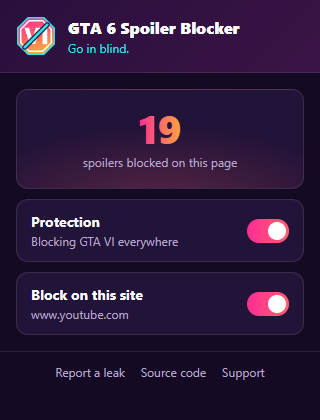
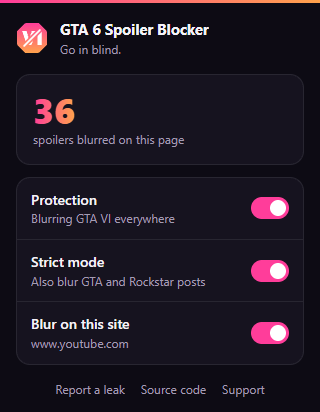
docs: update readme, screenshots, and store listing for blur

diff --git a/scripts/build-icons.js b/scripts/build-icons.js
@@ -3,6 +3,7 @@ import { mkdirSync, readFileSync } from "node:fs";
 
 const LOGO_FILE = "src/assets/logo.svg";
 const logo = readFileSync(LOGO_FILE, "utf8");
+const FONT = "Segoe UI, Inter, Arial, sans-serif";
 
 const nestedLogo = (x, y, size) =>
   logo.replace(
@@ -10,44 +11,36 @@ const nestedLogo = (x, y, size) =>
     `<svg x="${x}" y="${y}" width="${size}" height="${size}" `,
   );
 
-const sunStripes = [0, 1, 2, 3, 4]
+const sunGaps = [0, 1, 2, 3]
   .map(
     (i) =>
-      `<rect x="0" y="${505 + i * 34}" width="1320" height="${6 + i * 3}" fill="#2a0f3d"/>`,
+      `<rect x="840" y="${500 + i * 36}" width="420" height="${4 + i * 3}" fill="#0d0b14"/>`,
   )
   .join("");
 
 const banner = `
 <svg xmlns="http://www.w3.org/2000/svg" width="1320" height="840" viewBox="0 0 1320 840">
   <defs>
-    <linearGradient id="sky" x1="0" y1="0" x2="0" y2="1">
-      <stop offset="0" stop-color="#120822"/>
-      <stop offset="0.6" stop-color="#2a0f3d"/>
-      <stop offset="1" stop-color="#5a1a4f"/>
-    </linearGradient>
     <linearGradient id="sun" x1="0" y1="0" x2="0" y2="1">
-      <stop offset="0" stop-color="#ffa63d"/>
-      <stop offset="0.6" stop-color="#ff5f6d"/>
-      <stop offset="1" stop-color="#ff2d95"/>
+      <stop offset="0" stop-color="#ffa24c"/>
+      <stop offset="1" stop-color="#ff3d9a"/>
     </linearGradient>
-    <linearGradient id="title" x1="0" y1="0" x2="1" y2="0">
-      <stop offset="0" stop-color="#ff2d95"/>
-      <stop offset="1" stop-color="#ffa63d"/>
+    <linearGradient id="line" x1="0" y1="0" x2="1" y2="0">
+      <stop offset="0" stop-color="#ff3d9a"/>
+      <stop offset="1" stop-color="#ffa24c"/>
     </linearGradient>
-    <clipPath id="sunClip"><rect x="0" y="0" width="1320" height="660"/></clipPath>
-    <clipPath id="stripeClip"><circle cx="1040" cy="600" r="230"/></clipPath>
+    <clipPath id="horizon"><rect width="1320" height="640"/></clipPath>
   </defs>
-  <rect width="1320" height="840" fill="url(#sky)"/>
-  <g clip-path="url(#sunClip)">
-    <circle cx="1040" cy="600" r="230" fill="url(#sun)" opacity="0.9"/>
-    <g clip-path="url(#stripeClip)">${sunStripes}</g>
+  <rect width="1320" height="840" fill="#0d0b14"/>
+  <g clip-path="url(#horizon)">
+    <circle cx="1050" cy="640" r="190" fill="url(#sun)"/>
+    ${sunGaps}
   </g>
-  <rect x="0" y="660" width="1320" height="180" fill="#1a0b2e"/>
-  <line x1="0" y1="660" x2="1320" y2="660" stroke="#2de2e6" stroke-width="4"/>
-  ${nestedLogo(90, 110, 260)}
-  <text x="90" y="520" font-family="Segoe UI, Arial, sans-serif" font-weight="900" font-size="132" fill="url(#title)">GTA 6</text>
-  <text x="90" y="620" font-family="Segoe UI, Arial, sans-serif" font-weight="900" font-size="92" fill="#ffffff">SPOILER BLOCKER</text>
-  <text x="94" y="760" font-family="Segoe UI, Arial, sans-serif" font-weight="700" font-size="44" letter-spacing="8" fill="#2de2e6">GO IN BLIND</text>
+  <rect x="0" y="639" width="1320" height="2" fill="url(#line)"/>
+  ${nestedLogo(110, 150, 140)}
+  <text x="106" y="420" font-family="${FONT}" font-weight="800" font-size="92" letter-spacing="-2" fill="#f5f3f8">GTA 6</text>
+  <text x="106" y="520" font-family="${FONT}" font-weight="800" font-size="92" letter-spacing="-2" fill="#f5f3f8">Spoiler Blocker</text>
+  <text x="110" y="745" font-family="${FONT}" font-weight="600" font-size="40" fill="#a39cb3">Go in blind.</text>
 </svg>`;
 
 mkdirSync("public/icons", { recursive: true });

diff --git a/README.md b/README.md
@@ -4,7 +4,7 @@
 
 <a href="https://github.com/kpulka247/gta6-spoiler-blocker/actions" title="GitHub Actions Workflow Status"><img src="https://img.shields.io/github/actions/workflow/status/kpulka247/gta6-spoiler-blocker/release.yml"></a>
 <a href="https://github.com/kpulka247/gta6-spoiler-blocker/releases" title="GitHub Release"><img src="https://img.shields.io/github/v/release/kpulka247/gta6-spoiler-blocker?logo=github&logoColor=white"></a>
-<a href="https://github.com/kpulka247/gta6-spoiler-blocker/blob/main/LICENSE" title="GitHub License"><img src="https://img.shields.io/github/license/kpulka247/gta6-spoiler-blocker?color=%23ff2d95"></a>
+<a href="https://github.com/kpulka247/gta6-spoiler-blocker/blob/main/LICENSE" title="GitHub License"><img src="https://img.shields.io/github/license/kpulka247/gta6-spoiler-blocker?color=%23ff3d9a"></a>
 
 </div>
 
@@ -12,31 +12,35 @@
 
 GTA 6 Spoiler Blocker is a browser extension for people who want to play Grand Theft Auto VI knowing nothing about it. Once the game is out, its story, characters, and ending will be on every feed, search page, and news site. Muting a few keywords on one social network does not stop that.
 
-The extension reads every page you open and removes anything about GTA VI before you see it: video tiles, posts, comments, search results, article cards, and image captions. Pages that are entirely about the game, such as a trailer on YouTube or a review, are covered with a full-screen shield instead. Everything else on the internet stays untouched.
+The extension reads every page you open and blurs anything about GTA VI before you see it: video tiles, posts, comments, search results, article cards, and image captions. The page keeps its layout, and you click a blurred card to see it. Pages that are entirely about the game, such as a trailer or a review, are covered with a see-through blur and a short message.
 
-It is on from the moment you install it. There is nothing to configure.
+It is on from the moment you install it, in every language. There is nothing to configure.
 
 ## Features
 
-- 🛡 **Blocks by meaning, not by one keyword list.** It catches every spelling of the title (`GTA 6`, `GTA VI`, `gta6`, `#GTA6`, `GTA-VI`, `Grand Theft Auto: VI`, `ГТА 6`, `グランド・セフト・オートVI`), the main characters, and the locations of Leonida. Fullwidth digits, Roman numeral characters, and hidden zero-width characters do not get past it.
-- 🧱 **Removes whole cards, not single words.** It has card rules for YouTube, Reddit, X, Facebook, Instagram, TikTok, Twitch, Google, Bing, DuckDuckGo, and Steam, so the whole video tile, post, or result goes and the thumbnail goes with the title. On other sites it finds the nearest card, list item, or paragraph.
-- 🌅 **Covers pages that are about the game.** If the address or the tab title mentions GTA VI, a shield covers the page, pauses any video or audio, and renames the tab. You choose **Take me back** or **Show anyway**.
-- 🎬 **Treats Rockstar's own channels as spoilers.** The Rockstar Games website, YouTube channel, X, Instagram, Facebook, Threads, TikTok, and Twitch accounts are covered, and any post that links to them is hidden. Their key art often has no text a keyword could catch.
-- ⚡ **Works before the page paints.** The content script starts at `document_start` and watches the page as it loads, so endless feeds and single-page apps are covered as you scroll.
-- 🔢 **Shows a count on the icon.** The badge shows how many spoilers it removed from the current page.
-- 🔒 **Collects no data.** Everything runs locally. There are no servers, no analytics, and no remote block lists.
+- 🌫 **Blurs in place.** A matching card stays where it is, blurred, with a small **GTA spoiler · Click to show** label. One click shows it. The click does not open the link underneath.
+- 🛡 **Catches every spelling.** `GTA 6`, `GTA VI`, `gta6`, `#GTA6`, `GTA-VI`, `Grand Theft Auto: VI`, `ГТА 6`, `グラセフ6`, `侠盗猎车手6`, `그랜드 테프트 오토 6`, `जीटीए 6`, and more. Fullwidth digits, Roman numeral characters, and hidden zero-width characters do not get past it. The main characters, the places of Leonida, and phrases like "Jason dies" are blocked in several languages.
+- 🎯 **Strict mode, on by default.** Many posts hide GTA VI behind a **See more** link or inside an image, with only "All GTA helicopters" or a group called "Rockstar Games" in plain view. Strict mode also blurs posts that mention GTA, Grand Theft Auto, or Rockstar Games. Turn it off in the popup if you want older GTA content to stay clear.
+- 🌅 **Covers pages that are about the game.** If the address or the tab title mentions GTA VI, the page is blurred behind a card with **Take me back** and **Show anyway**. Videos and audio on the page are paused, and the tab is renamed.
+- 🎬 **Treats Rockstar's own channels as spoilers.** The Rockstar Games website, YouTube channel, X, Instagram, Facebook, Threads, TikTok, and Twitch accounts are covered, and any post that links to them is blurred.
+- 🧱 **Blurs whole cards.** It has card rules for YouTube, Reddit, X, Facebook, Instagram, TikTok, Twitch, Google, Bing, DuckDuckGo, and Steam, so a thumbnail is blurred together with its title. On other sites it blurs the nearest card, list item, or paragraph.
+- 🌍 **Speaks 20 languages.** The popup, labels, and page cover follow your browser language: English, Polish, German, Spanish, French, Italian, Portuguese, Dutch, Swedish, Czech, Russian, Ukrainian, Turkish, Arabic, Hindi, Indonesian, Japanese, Korean, and Simplified and Traditional Chinese.
+- 🔢 **Shows a count on the icon.** The badge shows how many spoilers are blurred on the current page.
+- 🔒 **Collects no data.** Everything runs on your device. There are no servers, no analytics, and no remote block lists.
 
 ## Screenshots
 
-A YouTube search for `rockstar games trailer` without the extension, then with it:
+A YouTube search for `rockstar games trailer` without the extension:
 
 ![YouTube search without the extension](static/images/screenshot-youtube-off.png)
 
+The same search with the extension:
+
 ![YouTube search with the extension](static/images/screenshot-youtube-on.png)
 
-A page about GTA VI is covered:
+A page about GTA VI:
 
-![Full-page shield](static/images/screenshot-shield.png)
+![Page cover](static/images/screenshot-shield.png)
 
 The popup:
 
@@ -53,19 +57,23 @@ The Chrome Web Store and Firefox Add-ons listings are in review. Until they are 
 
 Install it and browse. The extension is on by default on every site.
 
+To see a blurred card, click it. To open the link inside it, click again.
+
 Click the toolbar icon to open the popup:
 
-- **Protection** turns blocking on or off everywhere.
-- **Block on this site** turns blocking off for the current site only. Use it if you write about GTA VI or moderate a GTA community.
+- **Protection** turns blurring on or off everywhere.
+- **Strict mode** also blurs posts that mention GTA or Rockstar without naming GTA VI.
+- **Blur on this site** turns blurring off for the current site only. Use it if you write about GTA VI or moderate a GTA community.
 
 To report a spoiler that got through, [open an issue](https://github.com/kpulka247/gta6-spoiler-blocker/issues) with the page address. Leave the spoiler itself out of the issue.
 
 ## Known limitations
 
-- **Images with no text.** The extension reads text, links, and image descriptions. A thumbnail that shows GTA VI art under a title like "All Rockstar trailers 1997-2026" stays visible, because nothing in the page says GTA 6.
-- **Vice City.** The extension treats "Vice City" as a GTA VI location. Pages about Grand Theft Auto: Vice City from 2002 are hidden too.
+- **Images with no text.** The extension reads text, links, and image descriptions. A thumbnail that shows GTA VI art under a title that never mentions GTA stays clear. Strict mode catches most of these, because such posts usually name GTA or Rockstar somewhere.
+- **Strict mode is broad.** It blurs GTA V and GTA Online posts, and any "GTA" that means the Greater Toronto Area. Click to show them, or turn strict mode off.
+- **Vice City.** The extension treats "Vice City" as a GTA VI location. Pages about Grand Theft Auto: Vice City from 2002 are blurred too.
+- **Site layouts change.** The card rules for each site match its current markup. When a site redesigns, a rule can stop matching. The fallback still blurs the nearest list item or paragraph, but a thumbnail can stay clear until the rule is updated.
 - **Shadow DOM.** The extension does not check text inside shadow roots.
-- **Site layouts change.** The card rules for each site match that site's current markup. When a site redesigns, a rule can stop matching. The fallback still hides the nearest list item or paragraph, but a thumbnail can be left behind until the rule is updated.
 
 ## Development and build
 
@@ -100,7 +108,7 @@ Webpack writes unpacked builds to `dist/gta6spoilerblocker-chrome/` and `dist/gt
 ### 🧪 Test
 
 ```bash
-# Unit tests for the matcher: every spoiler that must be caught and every phrase that must not
+# Unit tests: every spoiler that must be caught, every phrase that must not, and every translation
 pnpm test
 
 # End-to-end tests: loads the built extension into Chromium and checks real pages
@@ -129,23 +137,27 @@ You do not bump versions by hand.
 
 ## How it works
 
-| File                     | Owns                                                                                                                                                                          |
-| ------------------------ | ----------------------------------------------------------------------------------------------------------------------------------------------------------------------------- |
-| `src/spoilers.js`        | What counts as GTA VI content. `TERM_GROUPS` lists every title variant, character, place, and spoiler phrase. `mentionsGta6()` and `urlMentionsGta6()` are the only matchers. |
-| `src/sites.js`           | Where a self-contained card starts and ends on each supported site, plus the fallback for every other site.                                                                   |
-| `src/settings.js`        | The stored settings (`enabled`, `allowedSites`) and their defaults.                                                                                                           |
-| `src/content/blocker.js` | Walks the page, checks text and attributes, and hides matching cards.                                                                                                         |
-| `src/content/shield.js`  | The full-page cover.                                                                                                                                                          |
-| `src/content/index.js`   | Starts the blocker, watches the page for changes, and decides when to show the shield.                                                                                        |
-| `src/background.js`      | The toolbar badge, and protecting tabs that were open at install time.                                                                                                        |
-| `public/manifest.json`   | The shared manifest. `webpack.config.js` adds the Chrome or Firefox background and Firefox ID at build time.                                                                  |
-| `scripts/build-icons.js` | Renders the icons, README banner, and store images from `src/assets/logo.svg`. Run it with `pnpm icons`.                                                                      |
+| File                     | Owns                                                                                                                                                                                                                                                        |
+| ------------------------ | ----------------------------------------------------------------------------------------------------------------------------------------------------------------------------------------------------------------------------------------------------------- |
+| `src/spoilers.js`        | What counts as a spoiler. `EXPLICIT_TERMS` lists the title in every script, the characters, the places, and death phrases. `FRANCHISE_TERMS` lists the broader terms that strict mode adds. `mentionsGta6()` and `urlMentionsGta6()` are the only matchers. |
+| `src/sites.js`           | Where a self-contained card starts and ends on each supported site, plus the fallback for every other site.                                                                                                                                                 |
+| `src/settings.js`        | The stored settings (`enabled`, `strict`, `allowedSites`) and their defaults.                                                                                                                                                                               |
+| `src/locales.js`         | Every user-facing string in every language. The build turns it into `_locales/*/messages.json`.                                                                                                                                                             |
+| `src/styles/tokens.css`  | The colors and font shared by the blur labels, the page cover, and the popup.                                                                                                                                                                               |
+| `src/content/blocker.js` | Walks the page, checks text and attributes, and blurs or reveals cards.                                                                                                                                                                                     |
+| `src/content/shield.js`  | The page cover.                                                                                                                                                                                                                                             |
+| `src/content/index.js`   | Starts the blocker, watches the page for changes, handles click-to-reveal, and decides when to cover the page.                                                                                                                                              |
+| `src/background.js`      | The toolbar badge, and protecting tabs that were open at install time.                                                                                                                                                                                      |
+| `public/manifest.json`   | The shared manifest. `webpack.config.js` adds the Chrome or Firefox background and the Firefox ID at build time.                                                                                                                                            |
+| `scripts/build-icons.js` | Renders the icons, README banner, and store images from `src/assets/logo.svg`. Run it with `pnpm icons`.                                                                                                                                                    |
 
-To block a new term, add it to `TERM_GROUPS` in `src/spoilers.js` and add an example to `test/unit/spoilers.test.js`. Add a phrase that must stay visible to the `SAFE` list in the same file.
+To block a new term, add it to `EXPLICIT_TERMS` or `FRANCHISE_TERMS` in `src/spoilers.js` and add an example to `test/unit/spoilers.test.js`.
+
+To add a language, add a block to `MESSAGES` in `src/locales.js`. `pnpm test` fails until the block has every key and its store description fits in 132 characters.
 
 ## Contributing
 
-Contributions are welcome. 💖 New terms, site support, and false-positive reports help the most.
+Contributions are welcome. 💖 New terms, translations, site support, and false-positive reports help the most.
 
 Read **[CONTRIBUTING.md](./CONTRIBUTING.md)** to set up the project, find the target branch (`dev`), and name your Pull Request.
 

diff --git a/docs/store-listing.md b/docs/store-listing.md
@@ -1,6 +1,6 @@
 # Store listing
 
-Text to paste into the Chrome Web Store and Firefox Add-ons forms. Images are in `static/store/` and `static/images/`. Regenerate the store images with `pnpm icons`.
+Text to paste into the Chrome Web Store and Firefox Add-ons forms. The extension name and summary are translated in `src/locales.js` (`extName` and `extDescription`), and both stores pick them up from the package. Images are in `static/store/` and `static/images/`. Regenerate the store images with `pnpm icons`.
 
 ## Name
 
@@ -8,28 +8,31 @@ GTA 6 Spoiler Blocker
 
 ## Summary (132 characters maximum)
 
-Hides GTA 6 trailers, leaks, videos, articles and story spoilers across the web so you go in blind. Not affiliated with Rockstar.
+Blurs GTA 6 trailers, leaks, videos, posts and story spoilers across the web so you go in blind. Not affiliated with Rockstar.
 
 ## Description
 
-Want to play Grand Theft Auto VI knowing nothing about it? Once the game is out, its story, characters, and ending will be on every feed, search page, and news site. GTA 6 Spoiler Blocker removes them before you see them, and leaves the rest of the internet alone.
+Want to play Grand Theft Auto VI knowing nothing about it? Once the game is out, its story, characters, and ending will be on every feed, search page, and news site. GTA 6 Spoiler Blocker blurs them before you see them, and leaves the rest of the internet alone. Click a blurred post to see it.
 
 It works the moment you install it. There is nothing to set up.
 
-What it blocks:
-• Every spelling of the title: GTA 6, GTA VI, gta6, #GTA6, GTA-VI, Grand Theft Auto VI, and more
+What it blurs:
+• Every spelling of the title, in every script: GTA 6, GTA VI, gta6, #GTA6, ГТА 6, グラセフ6, 侠盗猎车手6, and more
 • The main characters, the state of Leonida, and its cities
 • Spoiler phrases such as "Jason dies" or "Lucia ending"
 • Rockstar Games' own website and social accounts, which are full of GTA VI art
+• In strict mode (on by default), any post about GTA or Rockstar, because many hide GTA VI behind "See more"
 
-How it blocks:
-• Hides whole video tiles, posts, comments, and search results on YouTube, Reddit, X, Facebook, Instagram, TikTok, Twitch, Google, Bing, DuckDuckGo, and Steam, so thumbnails go with their titles
-• Hides the matching card, list item, or paragraph on every other site
-• Covers pages that are about GTA VI with a full-screen shield and pauses their videos
-• Shows how many spoilers it removed on the toolbar icon
+How it works:
+• Blurs whole video tiles, posts, comments, and search results in place on YouTube, Reddit, X, Facebook, Instagram, TikTok, Twitch, Google, Bing, DuckDuckGo, and Steam
+• Blurs the matching card, list item, or paragraph on every other site
+• Covers pages that are about GTA VI with a see-through blur and pauses their videos
+• Shows how many spoilers are blurred on the toolbar icon
+• Speaks 20 languages
 
 You stay in control:
-• Turn protection off for one site, or everywhere, from the popup
+• Click any blurred post to see it
+• Turn strict mode off, or turn protection off for one site or everywhere, from the popup
 • Choose "Show anyway" on any covered page
 
 Privacy: everything runs on your device. The extension collects no data, sends nothing anywhere, and has no analytics.
@@ -45,12 +48,12 @@ This is an unofficial fan project. It is not affiliated with, endorsed by, or sp
 
 ## Single purpose (Chrome Web Store)
 
-Hide content about the video game Grand Theft Auto VI on web pages, so the user avoids story spoilers.
+Blur content about the video game Grand Theft Auto VI on web pages, so the user avoids story spoilers.
 
 ## Permission justifications (Chrome Web Store)
 
-- **Host permission `<all_urls>`.** Spoilers can appear on any website. The content script reads the text of each page the user opens and hides parts that mention GTA VI. It does not read or send form data, and it sends nothing off the device.
-- **`storage`.** Stores two settings on the device: whether protection is on, and the list of sites where the user turned it off.
+- **Host permission `<all_urls>`.** Spoilers can appear on any website. The content script reads the text of each page the user opens and blurs parts that mention GTA VI. It does not read or send form data, and it sends nothing off the device.
+- **`storage`.** Stores three settings on the device: whether protection is on, whether strict mode is on, and the list of sites where the user turned it off.
 - **`scripting`.** On install, injects the content script into tabs that were already open, so they are protected without a reload.
 
 ## Data usage (Chrome Web Store)
@@ -65,4 +68,4 @@ The manifest declares `data_collection_permissions: { "required": ["none"] }`.
 
 ## Reviewer notes
 
-The extension has no remote code and no network requests. To test it, open https://www.youtube.com/results?search_query=rockstar+games. GTA VI videos are hidden. Then open https://en.wikipedia.org/wiki/Grand_Theft_Auto_VI. The page is covered. The full source is at https://github.com/kpulka247/gta6-spoiler-blocker, and `pnpm install && pnpm build` reproduces the uploaded package.
+The extension has no remote code and no network requests. To test it, open https://www.youtube.com/results?search_query=rockstar+games. GTA VI videos are blurred. Click one to show it. Then open https://en.wikipedia.org/wiki/Grand_Theft_Auto_VI. The page is covered. The full source is at https://github.com/kpulka247/gta6-spoiler-blocker, and `pnpm install && pnpm build` reproduces the uploaded package.

diff --git a/CONTRIBUTING.md b/CONTRIBUTING.md
@@ -31,10 +31,11 @@ Do not paste the spoiler into the issue. Other people read issues too.
    - **Chrome.** Open `chrome://extensions`, turn on **Developer mode**, click **Load unpacked**, and select `dist/gta6spoilerblocker-chrome/`.
    - **Firefox.** Open `about:debugging#/runtime/this-firefox`, click **Load Temporary Add-on**, and select `manifest.json` in `dist/gta6spoilerblocker-firefox/`.
 
-## Add a term or a site
+## Add a term, a site, or a language
 
-- **A new term.** Add it to `TERM_GROUPS` in `src/spoilers.js`. Add an example that must be blocked to `SPOILERS` in `test/unit/spoilers.test.js`. If the term is close to common words, add a phrase that must stay visible to `SAFE`.
-- **A new site.** Add an entry to `SITE_UNITS` in `src/sites.js`. List the selectors of the smallest element that holds one whole item, such as a post or a video tile, so its thumbnail is hidden with its title.
+- **A new term.** Add it to `EXPLICIT_TERMS` in `src/spoilers.js` if it always means GTA VI, or to `FRANCHISE_TERMS` if it only hints at GTA and should be blurred in strict mode. Add an example that must be blocked to `SPOILERS` in `test/unit/spoilers.test.js`. If the term is close to common words, add a phrase that must stay visible to `SAFE`.
+- **A new site.** Add an entry to `SITE_UNITS` in `src/sites.js`. List the selectors of the smallest element that holds one whole item, such as a post or a video tile, so its thumbnail is blurred with its title.
+- **A new language.** Copy the `en` block in `src/locales.js`, rename it to the [Chrome locale code](https://developer.chrome.com/docs/extensions/reference/api/i18n#locales), and translate every value. `pnpm test` checks that no key is missing and that the store description fits in 132 characters.
 
 Run the tests before you open a Pull Request:
 
